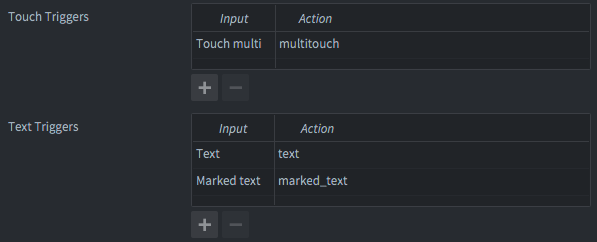
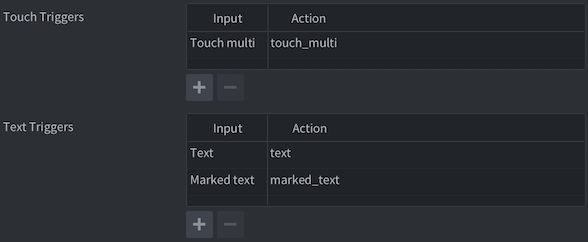
Solve #126 Update input bindings according to Defold defaults

diff --git a/README.md b/README.md
@@ -25,13 +25,13 @@ Or point to the ZIP file of a [specific release](https://github.com/Insality/dru
 **Druid** requires the following input bindings:
 
 - Mouse trigger - `Button 1` -> `touch` _For basic input components_
-- Mouse trigger - `Wheel up` -> `scroll_up` _For scroll component_
-- Mouse trigger - `Wheel down` -> `scroll_down` _For scroll component_
+- Mouse trigger - `Wheel up` -> `mouse_wheel_up` _For scroll component_
+- Mouse trigger - `Wheel down` -> `mouse_wheel_down` _For scroll component_
 - Key trigger - `Backspace` -> `key_backspace`  _For back_handler component, input component_
 - Key trigger - `Back` -> `key_back`  _For back_handler component, Android back button, input component_
 - Key trigger - `Enter` -> `key_enter` _For input component, optional_
 - Key trigger - `Esc` -> `key_esc` _For input component, optional_
-- Touch triggers - `Touch multi` -> `multitouch` _For scroll component_
+- Touch triggers - `Touch multi` -> `touch_multi` _For scroll component_
 
 ![](media/input_binding_2.png)
 ![](media/input_binding_1.png)
@@ -50,9 +50,9 @@ input_key_esc = key_esc
 input_key_back = key_back
 input_key_enter = key_enter
 input_key_backspace = key_backspace
-input_multitouch = multitouch
-input_scroll_up = scroll_up
-input_scroll_down = scroll_down
+input_multitouch = touch_multi
+input_scroll_up = mouse_wheel_up
+input_scroll_down = mouse_wheel_down
 ```
 
 
